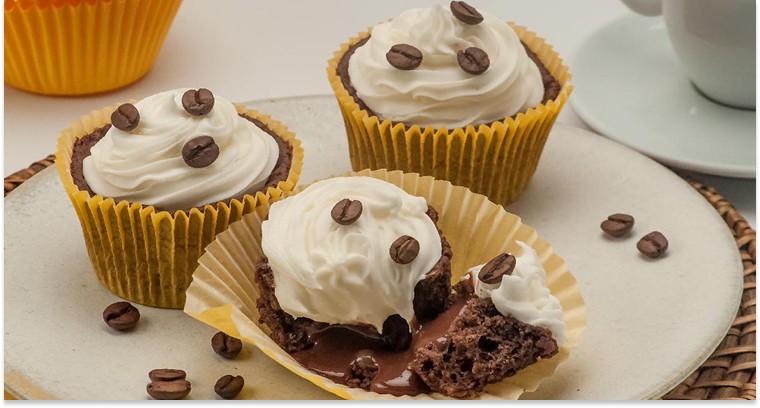
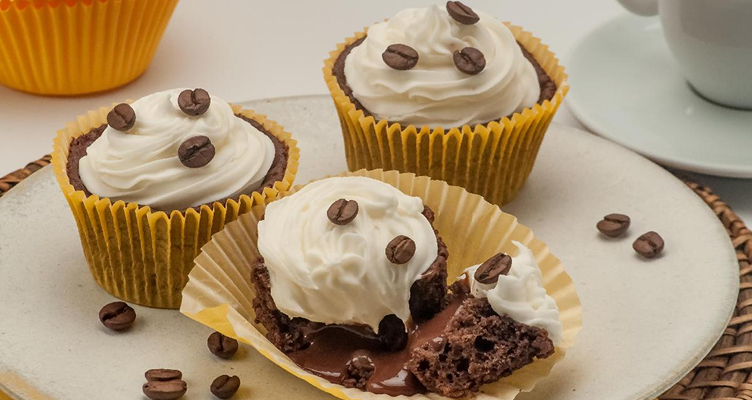
diminuindo o peso das images

diff --git a/style.css b/style.css
@@ -9,17 +9,21 @@
 }
 
 body {
-    background-image: url("assets/bg-image.jpg");
+    background-image: url("assets/bg-img.jpeggit ");
+    background-color: #573824;
     background-size: cover; /*vai cobrir toda área vísivel*/
     background-repeat: no-repeat;
+    background-position: center;
+
 }
 
 #container {
     width: 800px;
-    padding: 24px;
+    padding: 24px 100;
     background-color: #F0E8C2;
     border-radius: 24px;
     margin: 48px auto 28px ; /*48px é a parte vertical,auto centraliza e é a parte horizontal*/
+    
 }
 
 img {
@@ -61,6 +65,7 @@ footer {
     color: #F0E8C2;
     text-align: center;
     padding-bottom: 48px;
+    font-size: 24px;
 }
 
 footer img {
